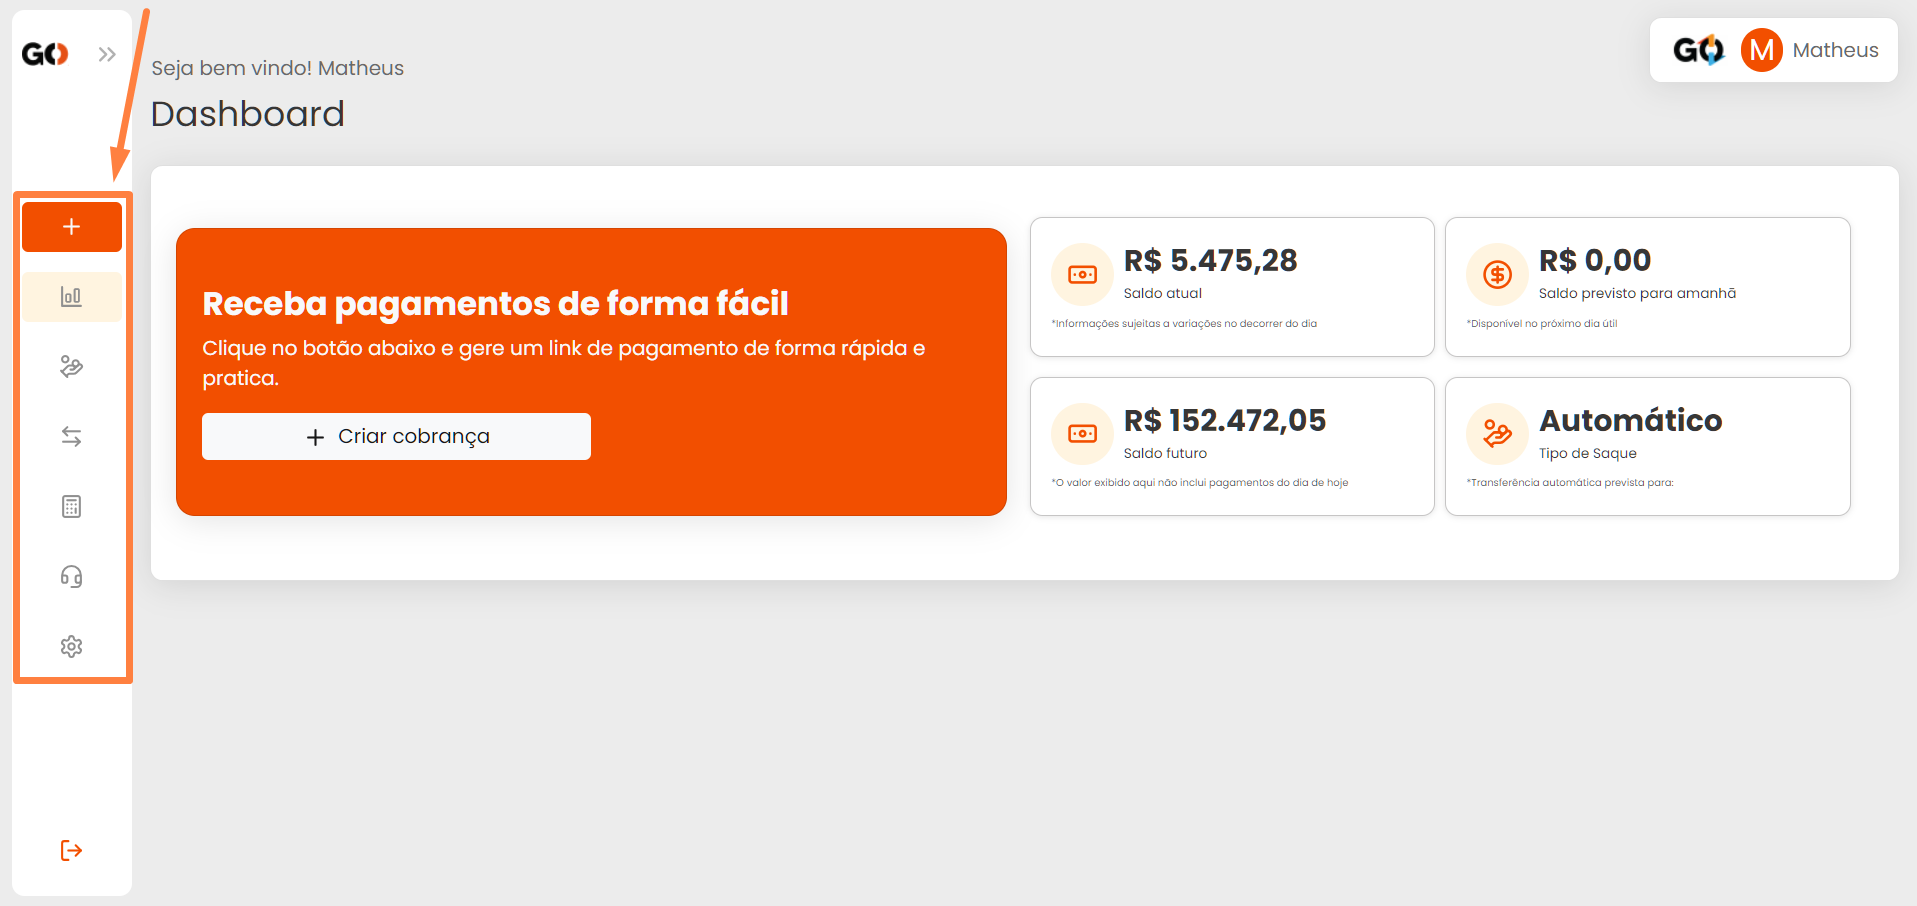
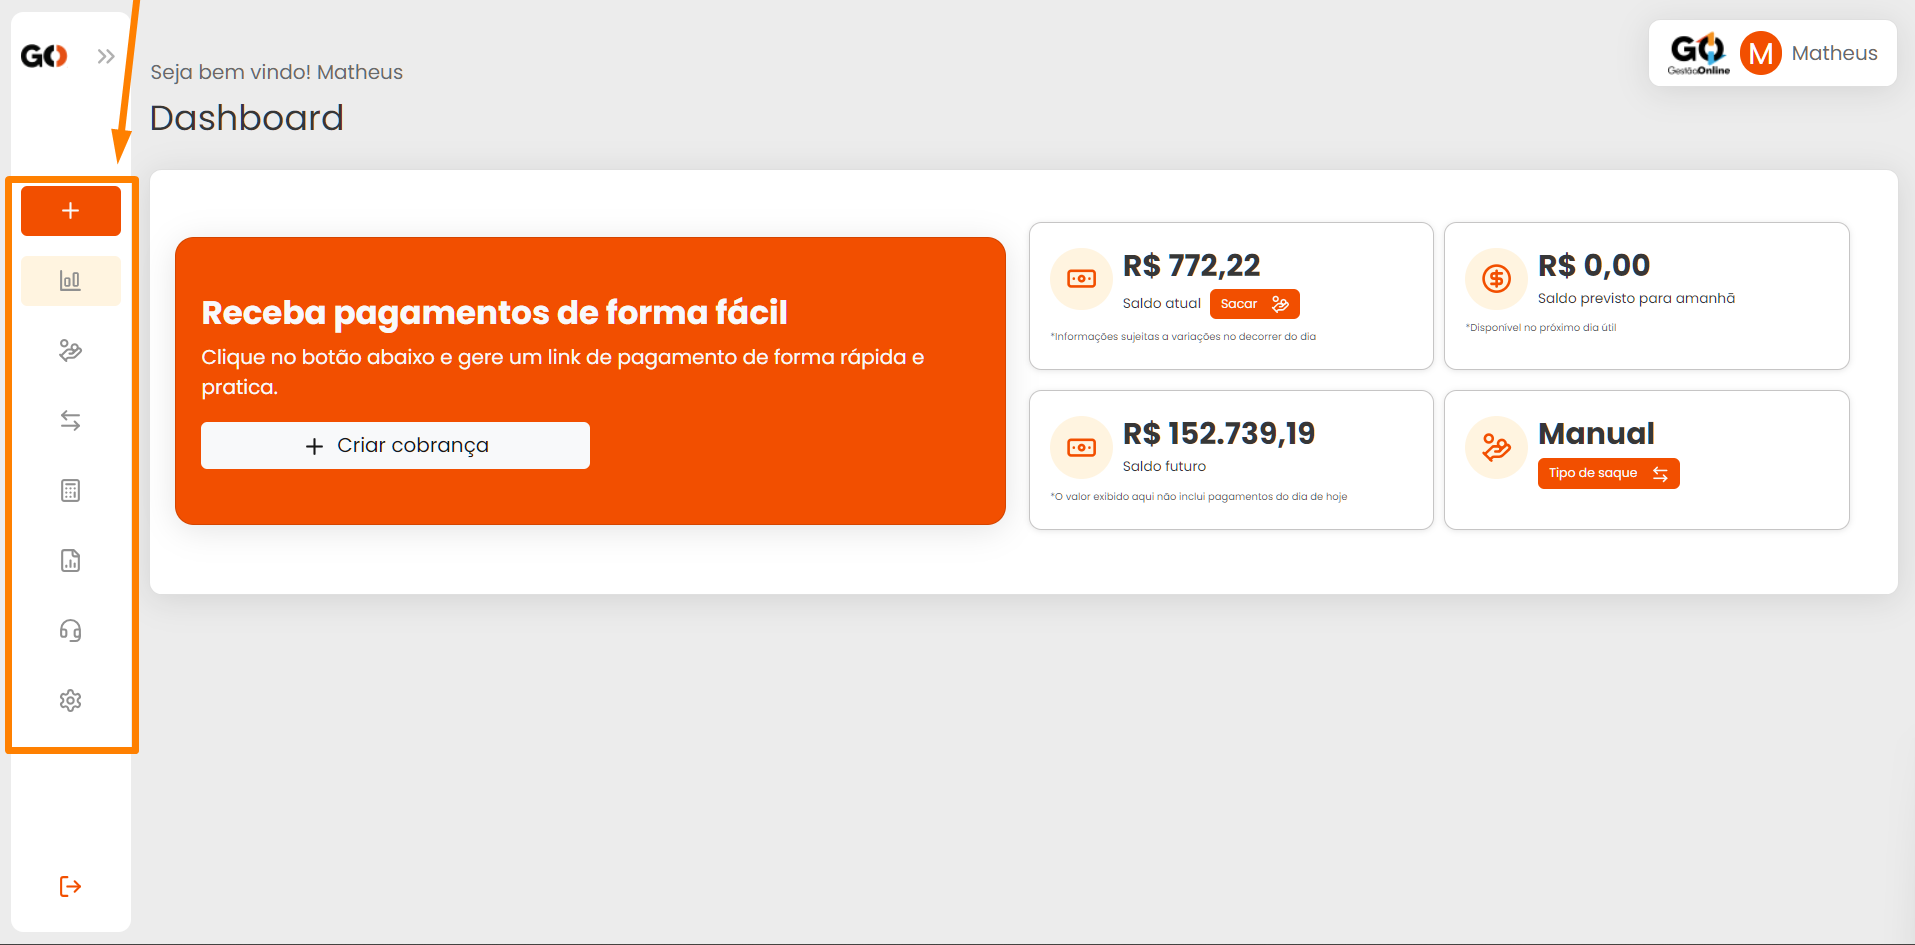
Update menu navegação, inserção de novos botões

diff --git a/NAVIGATION/README.md b/NAVIGATION/README.md
@@ -36,7 +36,7 @@ Além disso, tem mais um detalhe que é essencial para podermos nos localizarmos
 
 ![](../assets/prints/tela_inicial_menus_coluna.png)
 
-Isso foi pensado justamente para poder facilitar nossa navegação dentro da plataforma.
+Isso foi pensado justamente para poder facilitar sua navegação dentro da plataforma.
 
 **Incrível, não é mesmo!**
 
